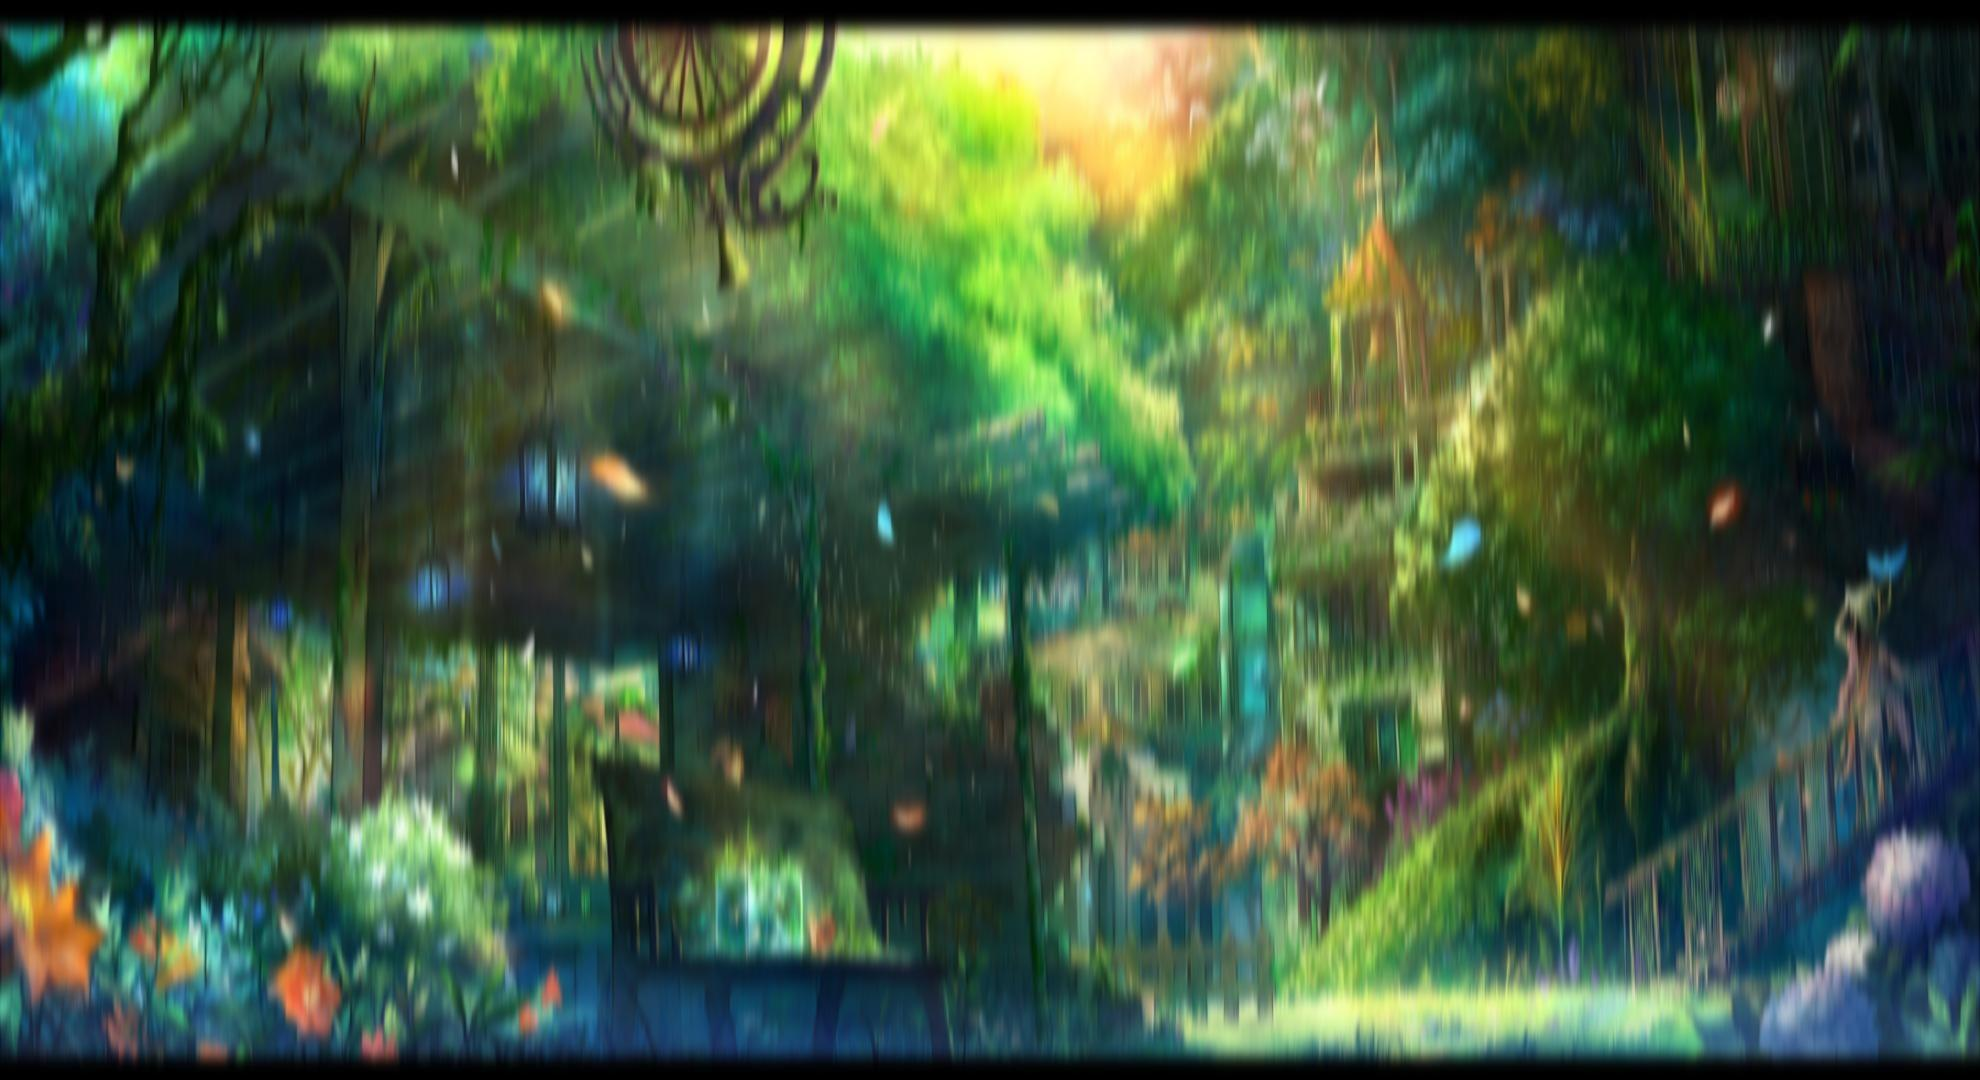
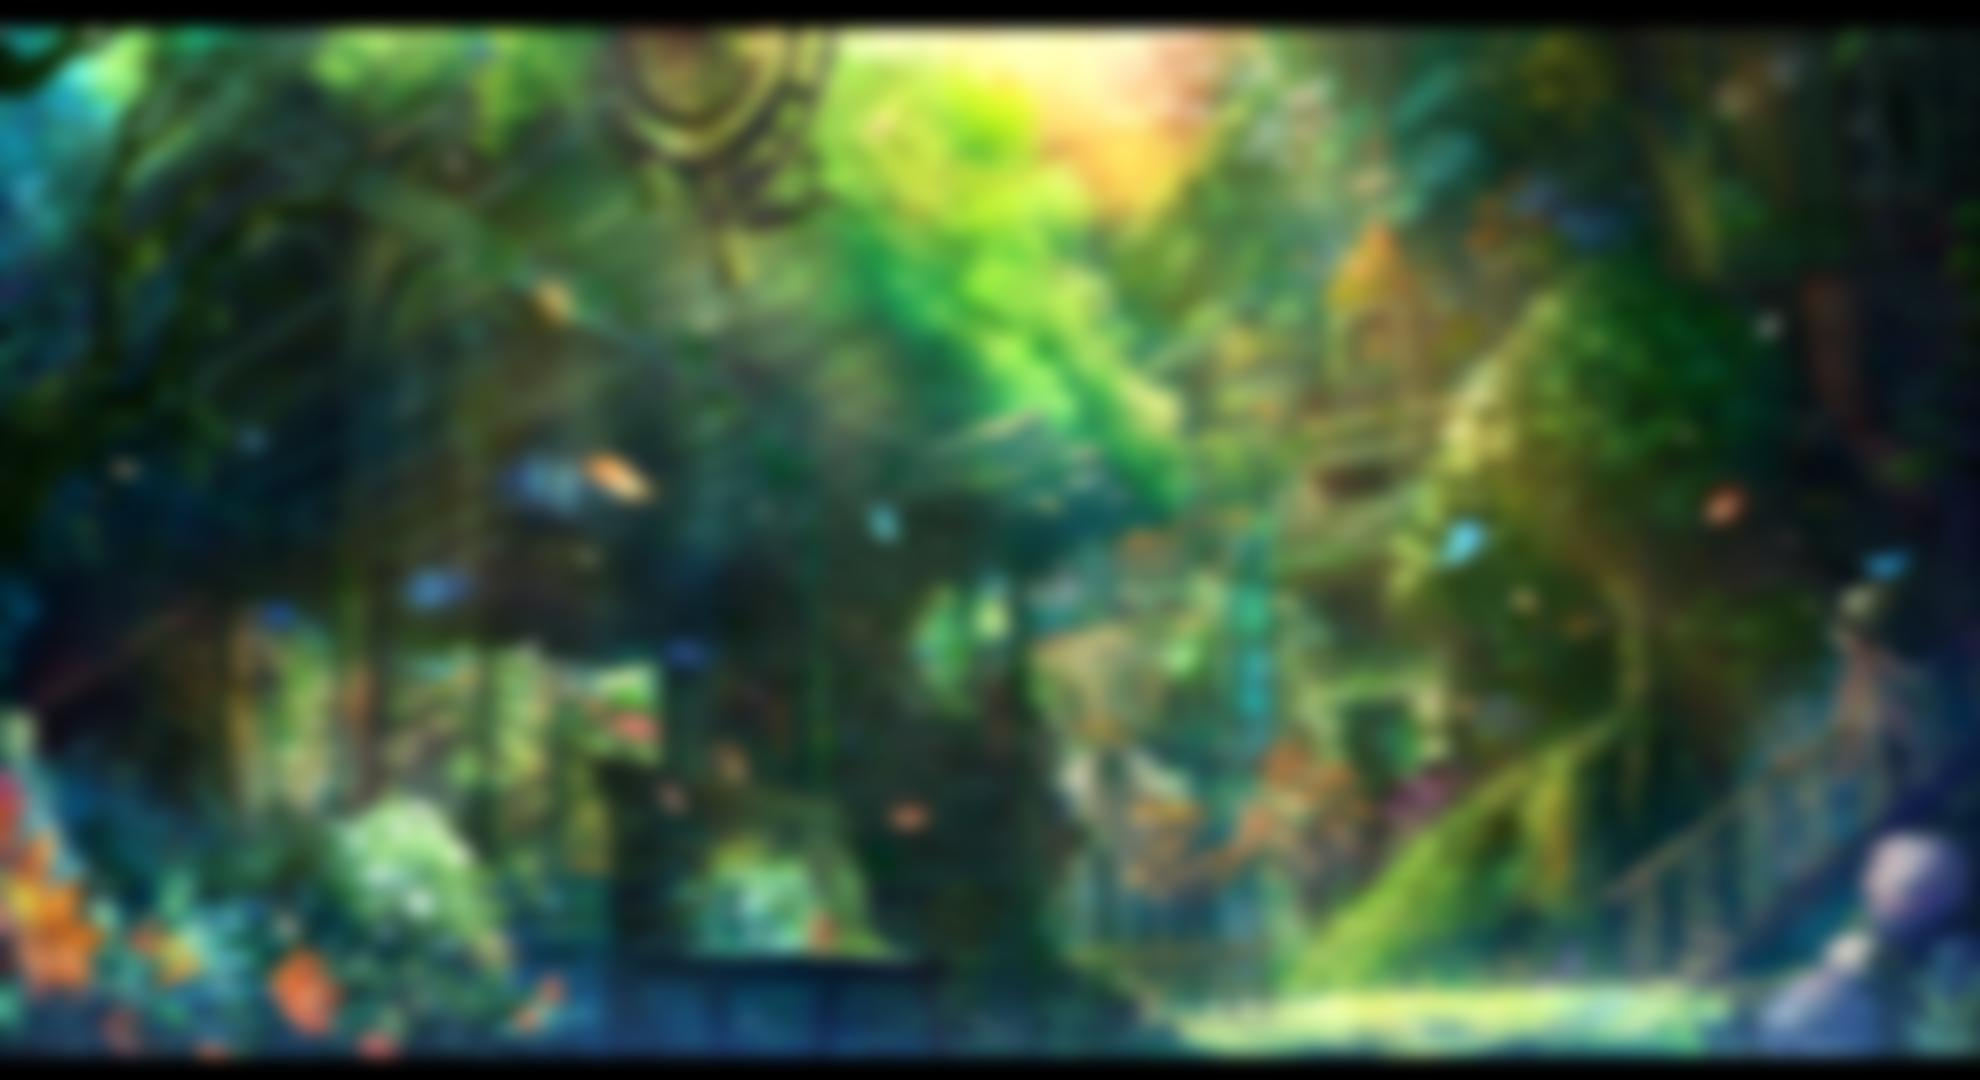
Fixed Python blurring algorithm

diff --git a/python_implementation/blur.py b/python_implementation/blur.py
@@ -1,128 +1,103 @@
-from PIL import Image
-from math import sqrt, floor
-from image import ImageRead
-
+import math
 
 def boxes_for_gauss(sigma, n):
     # ideal filter width
-    wi = sqrt((12 * sigma ** 2 / n) + 1)
-    wl = floor(wi)
+    wi = math.sqrt((12 * sigma * sigma / n) + 1)
+
+    wl = int(math.floor(wi))
     if wl % 2 == 0:
         wl -= 1
     wu = wl + 2
 
-    mi = (12 * sigma ** 2 - n * wl ** 2 - 4 * n * wl - 3 * n) / (-4 * wl - 4)
-    m = round(mi)
+    mi = (12 * sigma * sigma - n * wl * wl - 4 * n * wl - 3 * n) / (-4 * wl - 4)
+    m = int(round(mi))
 
     boxes = [((wl if i < m else wu) - 1) // 2 for i in range(n)]
-
     return boxes
 
-
-def horizontal_blur(inData, outData, w, h, r):
+def horizontal_blur(in_pixels, out_pixels, w, h, r):
     iarr = 1.0 / (r + r + 1)
 
     for i in range(h):
         ti = i * w
         li = ti
         ri = ti + r
-        fv = inData[ti]
-        lv = inData[ti + w - 1]
+        fv = in_pixels[ti]
+        lv = in_pixels[ti + w - 1]
         val = (r + 1) * fv
         for j in range(r):
-            val += inData[ti + j]
-
-        for j in range(r):
-            val += inData[ri] - fv
-            outData[ti] = round(val * iarr)
+            val += in_pixels[ti + j]
+        for j in range(r + 1):
+            val += in_pixels[ri] - fv
+            out_pixels[ti] = round(val * iarr)
+            ri += 1
             ti += 1
-            ri += 1
-
         for j in range(r + 1, w - r):
-            val += inData[ri] - inData[li]
-            outData[ti] = round(val * iarr)
-            ri += 1
+            val += in_pixels[ri] - in_pixels[li]
+            out_pixels[ti] = round(val * iarr)
             li += 1
+            ri += 1
             ti += 1
         for j in range(w - r, w):
-            val += lv - inData[li]
-            outData[ti] = round(val * iarr)
+            val += lv - in_pixels[li]
+            out_pixels[ti] = round(val * iarr)
             li += 1
             ti += 1
 
-
-def total_blur(inData, outData, w, h, r):
+def total_blur(in_pixels, out_pixels, w, h, r):
     iarr = 1.0 / (r + r + 1)
 
     for i in range(w):
-        ti, li, ri = i, i, i + r * w
-        fv, lv = inData[ti], inData[ti + w * (h - 1)]
+        ti = i
+        li = ti
+        ri = ti + r * w
+        fv = in_pixels[ti]
+        lv = in_pixels[ti + w * (h - 1)]
         val = (r + 1) * fv
-
         for j in range(r):
-            val += inData[ti + j * w]
-
+            val += in_pixels[ti + j * w]
         for j in range(r + 1):
-            val += inData[ri] - fv
-            outData[ti] = round(val * iarr)
+            val += in_pixels[ri] - fv
+            out_pixels[ti] = round(val * iarr)
             ri += w
             ti += w
-
         for j in range(r + 1, h - r):
-            val += inData[ri] - inData[li]
-            outData[ti] = round(val * iarr)
+            val += in_pixels[ri] - in_pixels[li]
+            out_pixels[ti] = round(val * iarr)
             li += w
             ri += w
             ti += w
-
         for j in range(h - r, h):
-            val += lv - inData[li]
-            outData[ti] = round(val * iarr)
+            val += lv - in_pixels[li]
+            out_pixels[ti] = round(val * iarr)
             li += w
             ti += w
 
+def box_blur(in_pixels, out_pixels, w, h, r):
+    horizontal_blur(in_pixels, out_pixels, w, h, r)
+    total_blur(out_pixels, in_pixels, w, h, r)
 
-def box_blur(inData, outData, w, h, sigma):
-    inData, outData = outData, inData
-    horizontal_blur(outData, inData, w, h, sigma)
-    total_blur(outData, inData, w, h, sigma)
-
-
-def fast_guassian_blur(inData, outData, w, h, sigma):
+def fast_gaussian_blur(in_pixels, out_pixels, w, h, sigma):
     boxes = boxes_for_gauss(sigma, 3)
-    box_blur(inData, outData, w, h, boxes[0])
-    box_blur(outData, inData, w, h, boxes[1])
-    box_blur(inData, outData, w, h, boxes[2])
-
+    box_blur(in_pixels, out_pixels, w, h, boxes[0])
+    box_blur(in_pixels, out_pixels, w, h, boxes[1])
+    box_blur(in_pixels, out_pixels, w, h, boxes[2])
 
 def blur_image(im, sigma):
-    oldr, oldg, oldb = im.img.split()
+    width, height = im.size
 
-    newr = Image.new('L', (im.width, im.heigth))
-    newg = Image.new('L', (im.width, im.heigth))
-    newb = Image.new('L', (im.width, im.heigth))
+    pixels = list(im.getdata())
+    red_pixels = [pixel[0] for pixel in pixels]
+    green_pixels = [pixel[1] for pixel in pixels]
+    blue_pixels = [pixel[2] for pixel in pixels]
+    new_red_pixels = [0] * (width * height)
+    new_green_pixels = [0] * (width * height)
+    new_blue_pixels = [0] * (width * height)
 
-    listOR = list(oldr.getdata())
-    listOG = list(oldg.getdata())
-    listOB = list(oldb.getdata())
+    fast_gaussian_blur(blue_pixels, new_blue_pixels, width, height, sigma)
+    fast_gaussian_blur(red_pixels, new_red_pixels, width, height, sigma)
+    fast_gaussian_blur(green_pixels, new_green_pixels, width, height, sigma)
 
-    listNR = list(newr.getdata())
-    listNB = list(newb.getdata())
-    listNG = list(newg.getdata())
-
-
-    fast_guassian_blur(listOB, listNB, im.width, im.heigth, sigma)
-    fast_guassian_blur(listOG, listNG, im.width, im.heigth, sigma)
-    fast_guassian_blur(listOR, listNR, im.width, im.heigth, sigma)
-
-    newr.putdata(listNR)
-    newb.putdata(listNB)
-    newg.putdata(listNG)
-
-
-    new_image = ImageRead()
-    new_image.img = Image.merge('RGB', (newr, newg, newb))
-    new_image.filename = im.filename
-
-
-    return new_image
+    new_pixels = [(new_red_pixels[i], new_green_pixels[i], new_blue_pixels[i]) for i in range(len(new_red_pixels))]
+    im.putdata(new_pixels)
+    return im

diff --git a/python_implementation/main.py b/python_implementation/main.py
@@ -36,9 +36,9 @@ def main():
         if choice == '1':
             sigma = input("Enter the radius of the blur: ")
             tim.start()
-            blur_im = blur_image(im, float(sigma))
+            im.img = blur_image(im.img, float(sigma))
             tim.stop()
-            blur_im.saveImage("blur")
+            im.saveImage("blur")
             continue
         elif choice == '2':
             inName2 = input("Enter first image with extension: ")
